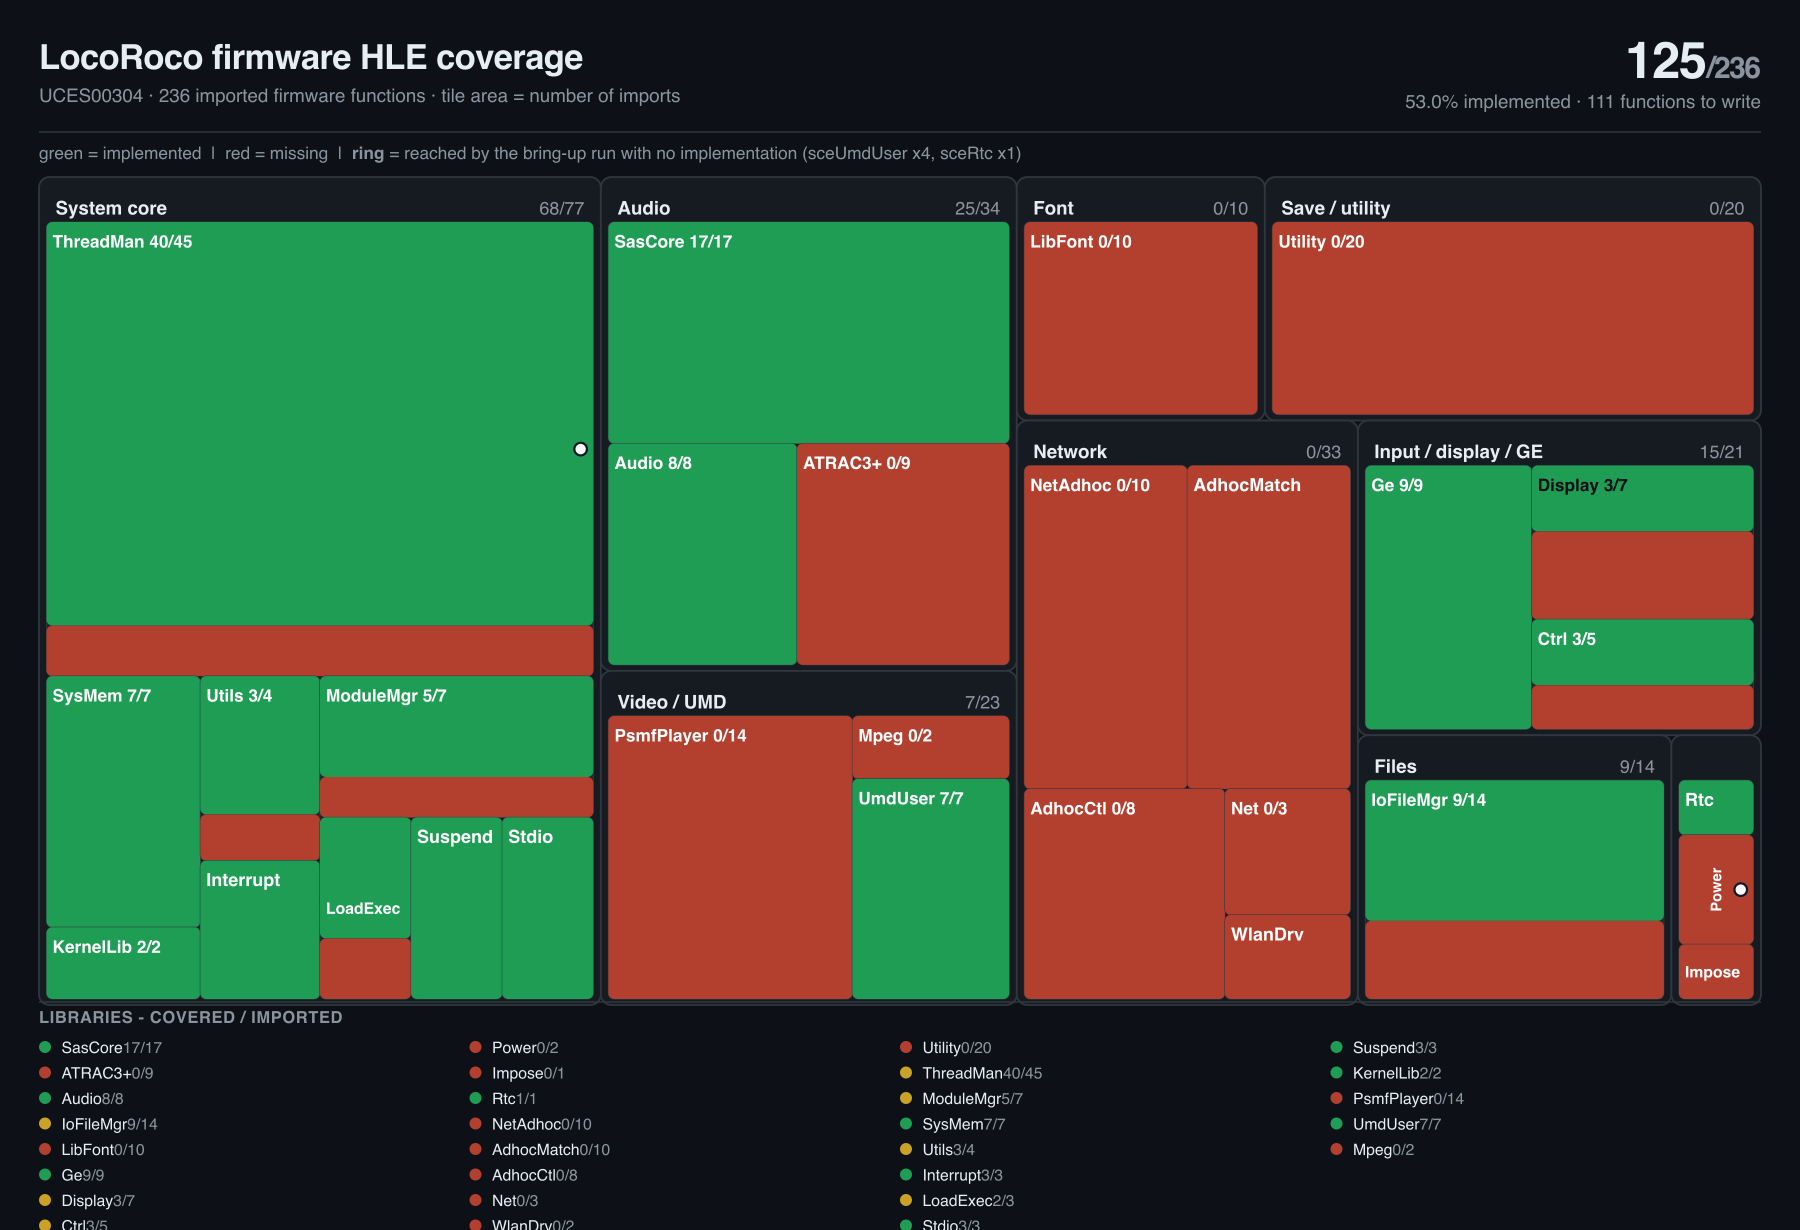
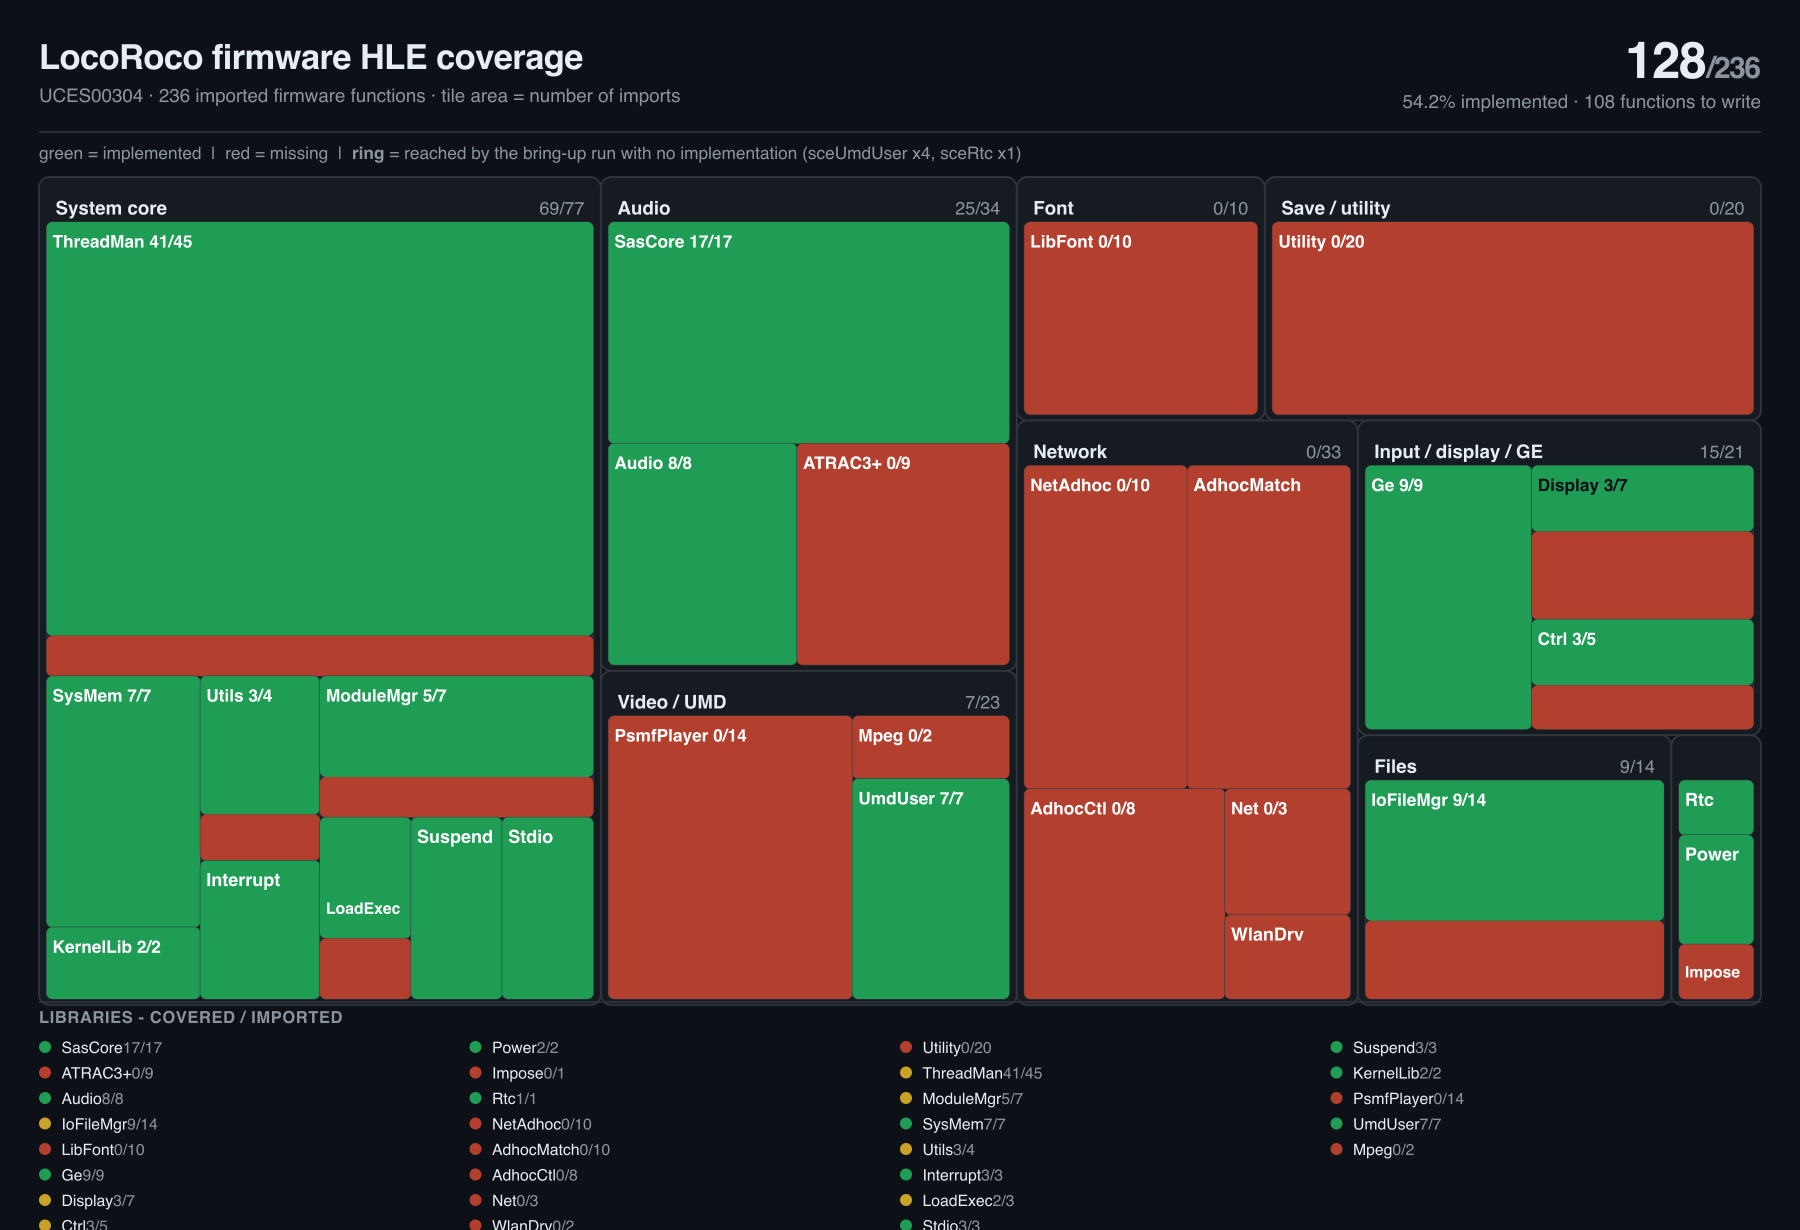
coverage: callbacks and power callback slots, 128/236 (54.2%)
sceKernelCheckCallback and both scePower callback functions land on the module's
imports (+3): the fourth registration in that work, sceKernelNotifyCallback, is
part of the mechanism but this module does not import it, so it is not counted
here. The run no longer reports any unimplemented call it reaches, so the ring
that marks them is empty for the first time.

diff --git a/docs/progress/hle-missing.md b/docs/progress/hle-missing.md
@@ -1,6 +1,6 @@
 # Missing firmware functions - locoroco
 
-**111 of 236 imported firmware functions have no HLE implementation** (125 are implemented, 53.0%). Names come from pspsdk where it declares the NID; the rest are named elsewhere (PPSSPP `Core/HLE`).
+**108 of 236 imported firmware functions have no HLE implementation** (128 are implemented, 54.2%). Names come from pspsdk where it declares the NID; the rest are named elsewhere (PPSSPP `Core/HLE`).
 
 `*` marks a function the bring-up run **reaches** without an implementation: that makes it the next thing to write, not just a gap in a list.
 
@@ -105,20 +105,6 @@ Regenerate: `tools/hle_coverage.py` (see README).
 | sceLibFont | `0xA834319D` | sceFontOpen |
 | sceLibFont | `0xBB8E7FE6` | sceFontOpenUserMemory |
 
-## System core (9)
-
-| library | NID | function |
-|---|---|---|
-| LoadExecForUser | `0xBD2F1094` | sceKernelLoadExec |
-| ModuleMgrForUser | `0x977DE386` | sceKernelLoadModule |
-| ModuleMgrForUser | `0xD675EBB8` | sceKernelSelfStopUnloadModule |
-| ThreadManForUser | `0x349D6D6C` | sceKernelCheckCallback * |
-| ThreadManForUser | `0x8125221D` | sceKernelCreateMbx |
-| ThreadManForUser | `0x86255ADA` | sceKernelDeleteMbx |
-| ThreadManForUser | `0x0D81716A` | sceKernelPollMbx |
-| ThreadManForUser | `0xE9B3061E` | sceKernelSendMbx |
-| UtilsForUser | `0x6AD345D7` | sceKernelSetGPO |
-
 ## Audio (9)
 
 | library | NID | function |
@@ -132,6 +118,19 @@ Regenerate: `tools/hle_coverage.py` (see README).
 | sceAtrac3plus | `0x61EB33F5` | sceAtracReleaseAtracID |
 | sceAtrac3plus | `0x0E2A73AB` | sceAtracSetData |
 | sceAtrac3plus | `0x868120B5` | sceAtracSetLoopNum |
+
+## System core (8)
+
+| library | NID | function |
+|---|---|---|
+| LoadExecForUser | `0xBD2F1094` | sceKernelLoadExec |
+| ModuleMgrForUser | `0x977DE386` | sceKernelLoadModule |
+| ModuleMgrForUser | `0xD675EBB8` | sceKernelSelfStopUnloadModule |
+| ThreadManForUser | `0x8125221D` | sceKernelCreateMbx |
+| ThreadManForUser | `0x86255ADA` | sceKernelDeleteMbx |
+| ThreadManForUser | `0x0D81716A` | sceKernelPollMbx |
+| ThreadManForUser | `0xE9B3061E` | sceKernelSendMbx |
+| UtilsForUser | `0x6AD345D7` | sceKernelSetGPO |
 
 ## Input / display / GE (6)
 
@@ -154,10 +153,8 @@ Regenerate: `tools/hle_coverage.py` (see README).
 | IoFileMgrForUser | `0x06A70004` | sceIoMkdir |
 | IoFileMgrForUser | `0xF27A9C51` | sceIoRemove |
 
-## Misc (3)
+## Misc (1)
 
 | library | NID | function |
 |---|---|---|
 | sceImpose | `0x36AA6E91` | sceImposeSetLanguageMode |
-| scePower | `0x04B7766E` | scePowerRegisterCallback * |
-| scePower | `0xDFA8BAF8` | scePowerUnregisterCallback |
